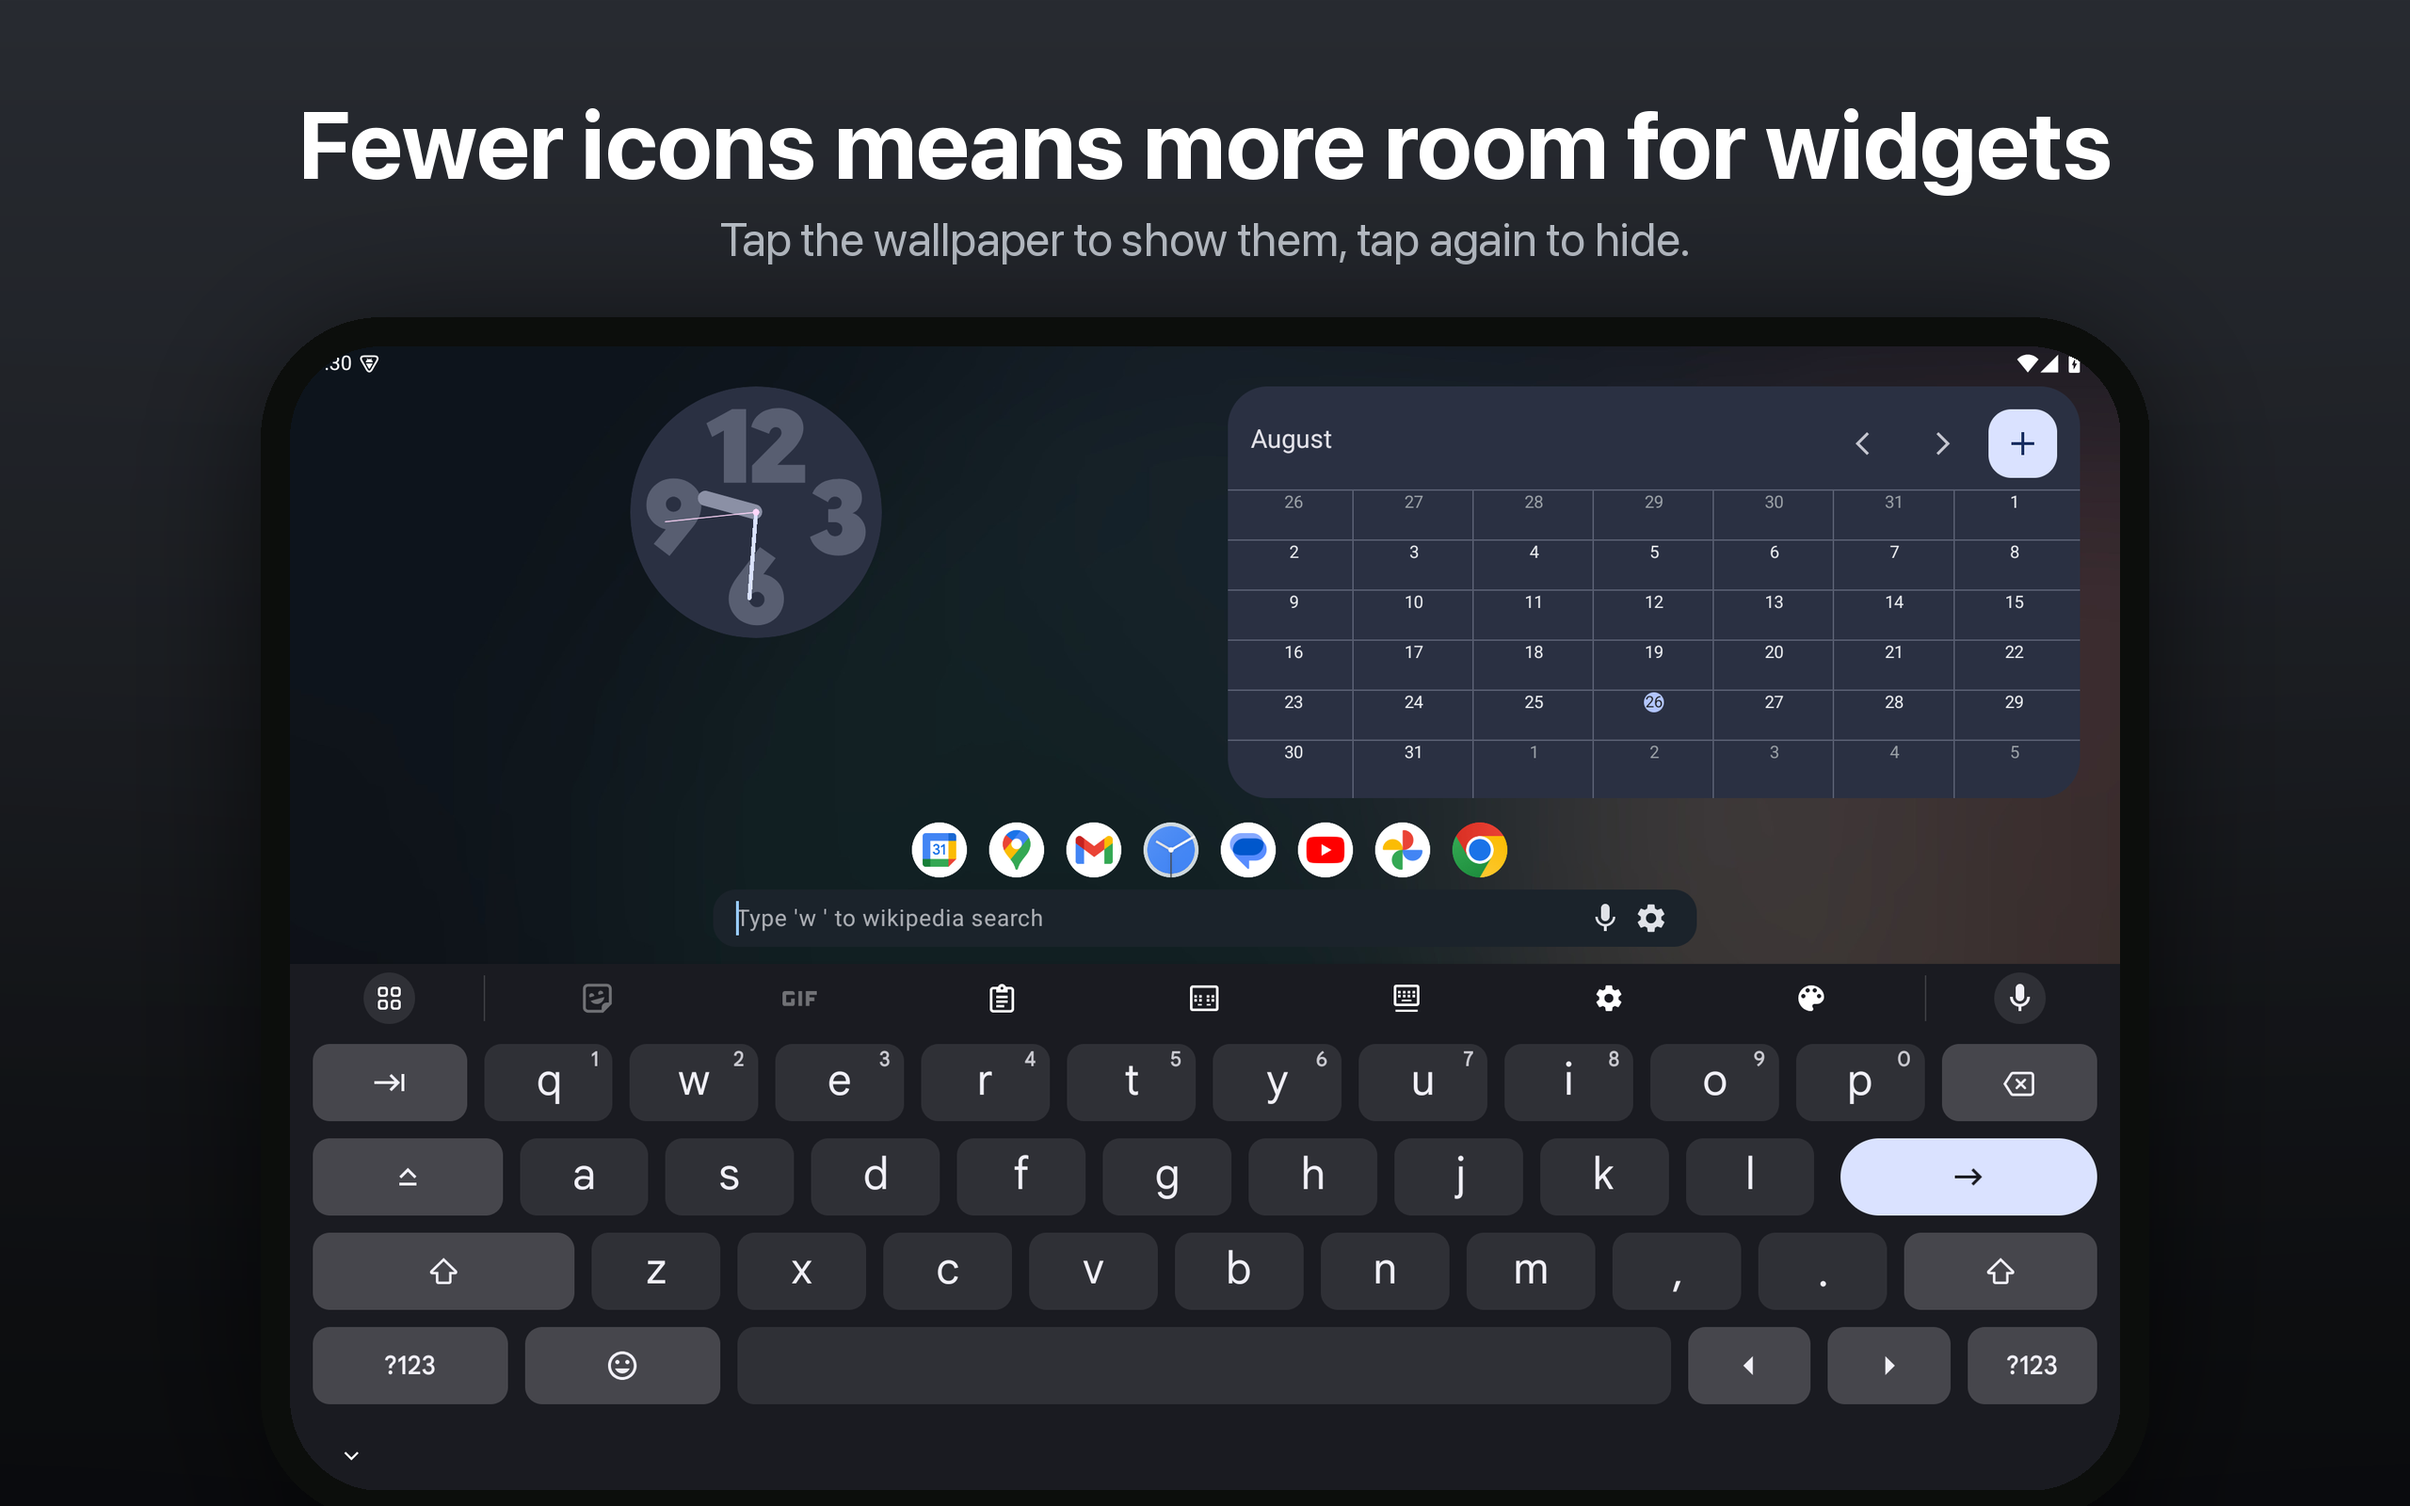
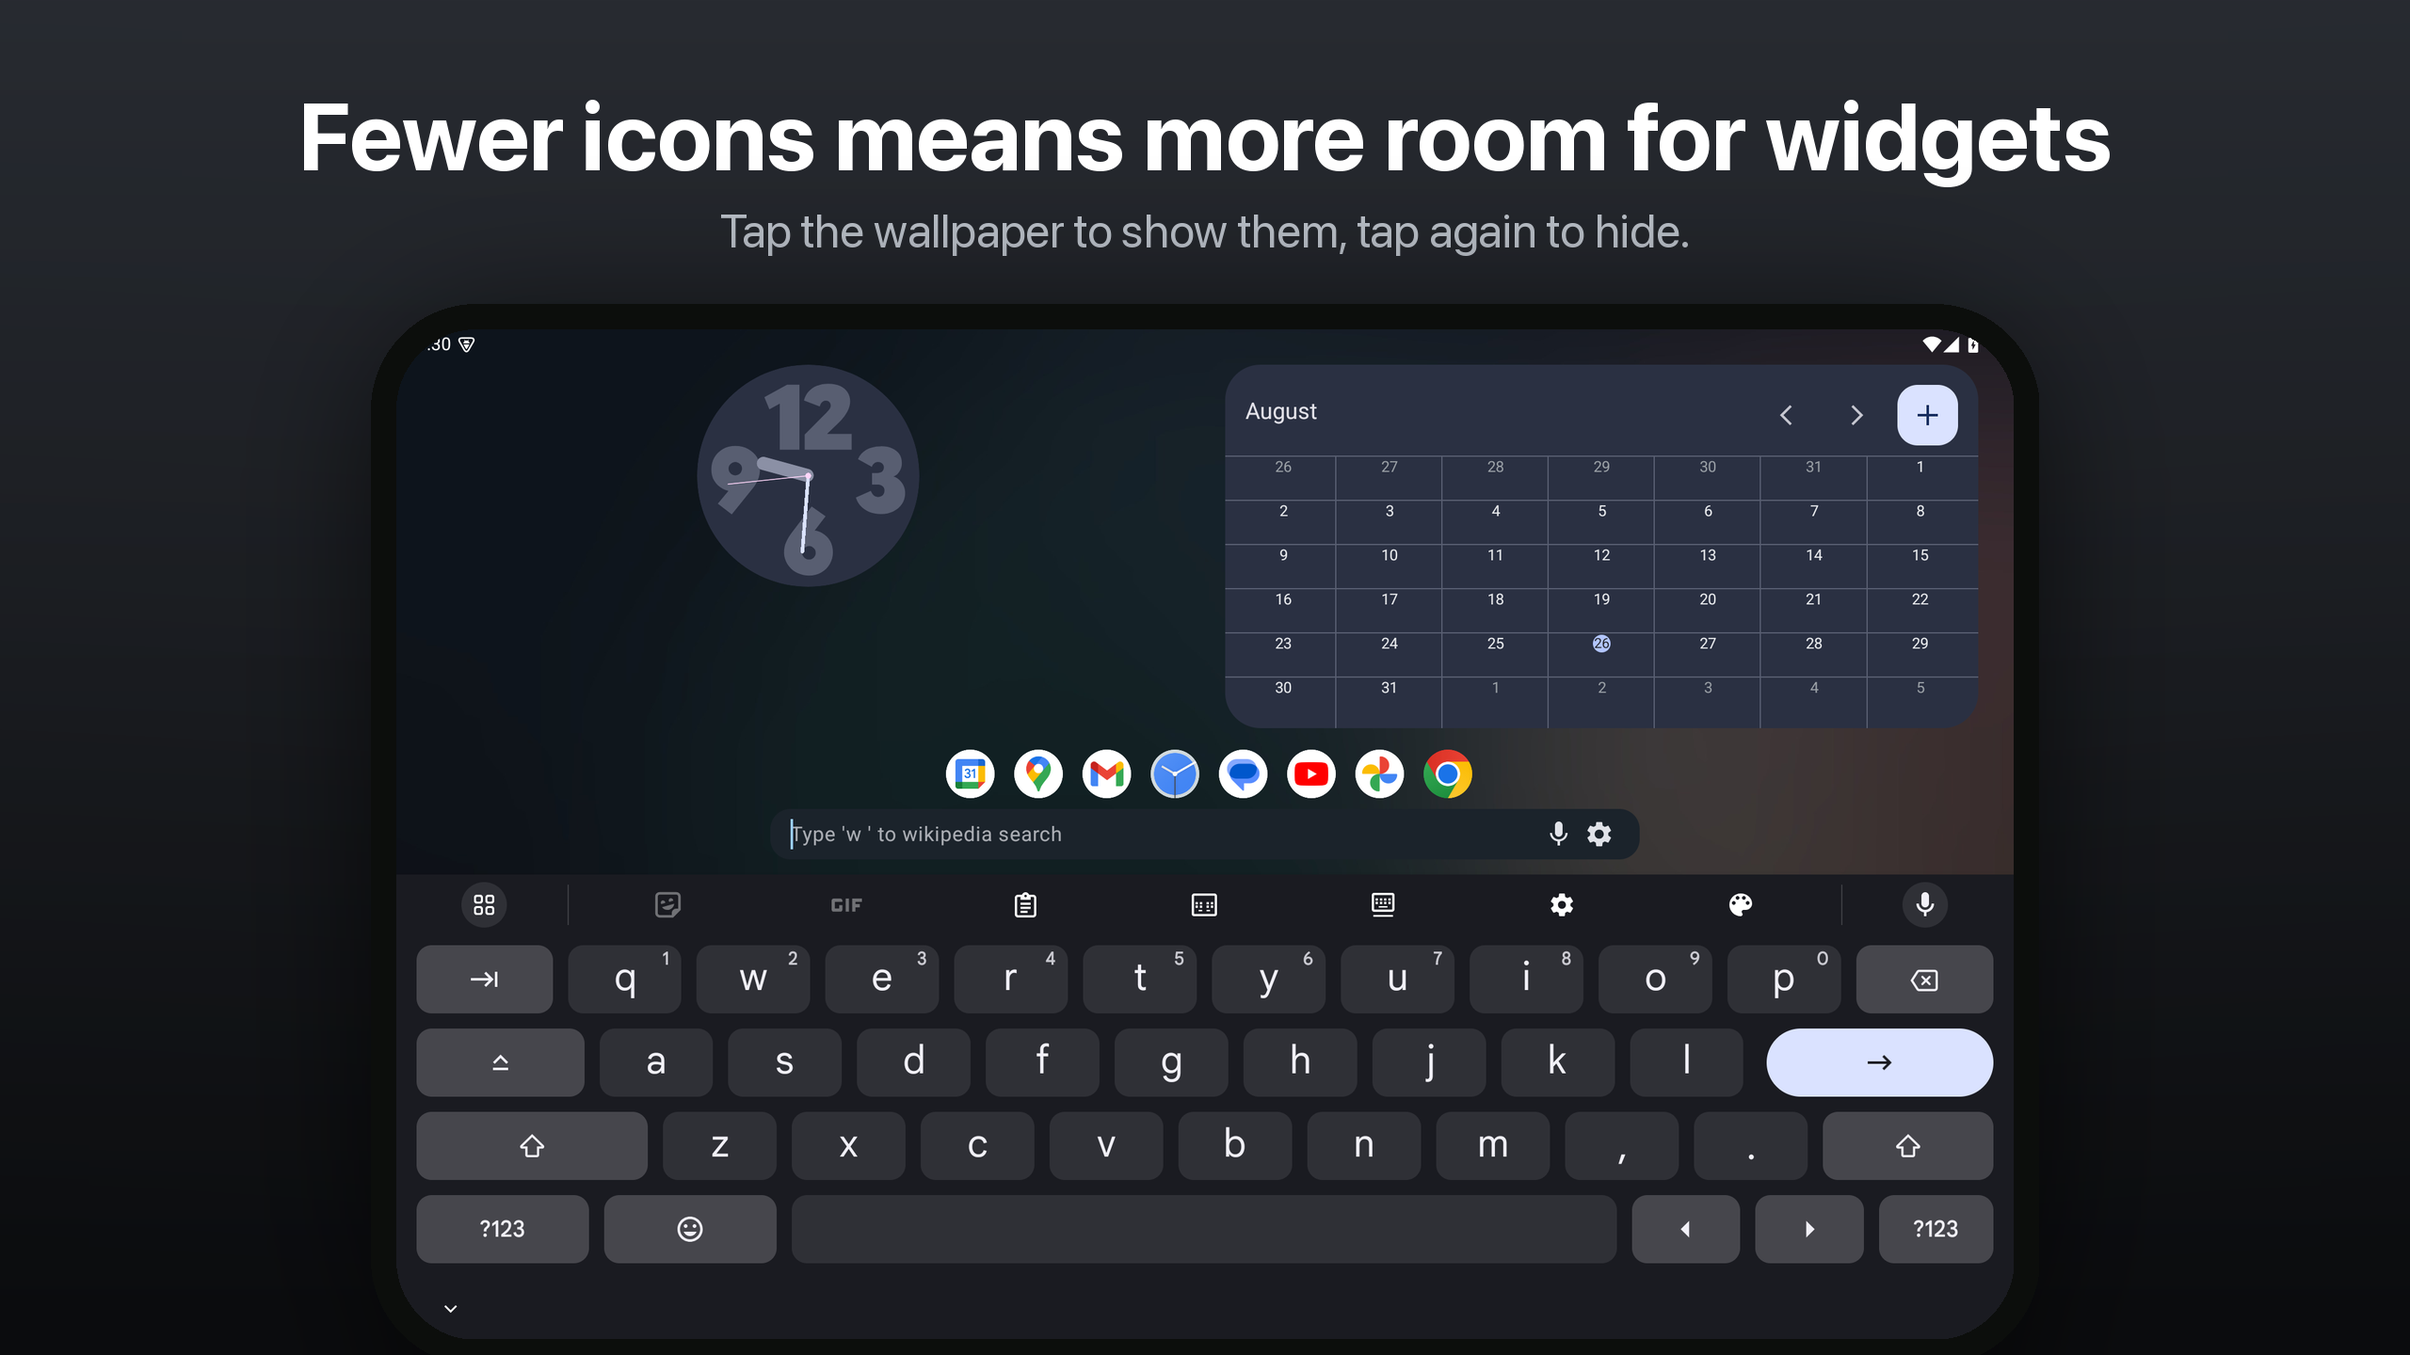
Compose the tablet screenshots onto a 16:9 canvas, and add the 7-inch set
Play wants 16:9 or 9:16 for both tablet slots and refuses anything else. The tablet
canvas was 2560x1600, which is 16:10, so the whole set would have been rejected on
upload. The canvases are 1920x1080 and 2560x1440 now. The rule is about the canvas, not
the capture: the screenshots inside are still 16:10 and unchanged.

Both tablet slots are required, not just the 10-inch one, so there is a tablet7 set. It
is the same six captures and the same copy on a smaller canvas, so nothing new has to be
written or shot when the copy changes.

check.py is new. It reads the generated images and reports anything a store would refuse
— aspect, side lengths, file size, how many are in a set. The console gives no warning
before an upload fails, and 16:10 in particular looks perfectly reasonable until it is
rejected. Run it before uploading.

diff --git a/marketing/check.py b/marketing/check.py
@@ -1,0 +1,85 @@
+#!/usr/bin/env python3
+"""
+Check the generated images against what the stores accept.
+
+Play refuses an upload rather than warning about it, and the rules are easy to miss:
+a 2560x1600 tablet canvas looks right but is 16:10, and both tablet slots want 16:9.
+
+    .venv/bin/python check.py
+
+Exits non-zero on the first thing a store would reject, so it can gate a commit.
+"""
+
+import glob
+import os
+import sys
+from fractions import Fraction
+
+from PIL import Image
+
+HERE = os.path.dirname(os.path.abspath(__file__))
+
+# Play's stated limits, per form factor. min_count of 2 is Play's floor for phones; the
+# tablet slots are marked required in the console once the app is not phone-only.
+SETS = {
+    "phone": dict(side=(320, 3840), count=(2, 8), ratios=("9:16", "16:9")),
+    "tablet7": dict(side=(320, 3840), count=(2, 8), ratios=("9:16", "16:9")),
+    "tablet10": dict(side=(1080, 7680), count=(2, 8), ratios=("9:16", "16:9")),
+    "feature": dict(exact=(1024, 500), count=(1, 1)),
+}
+MAX_MB = 8
+
+
+def ratio(w, h):
+    f = Fraction(w, h)
+    return f"{f.numerator}:{f.denominator}"
+
+
+def main():
+    failures = []
+    for name, rule in SETS.items():
+        files = sorted(glob.glob(os.path.join(HERE, "out", name, "*.png")))
+        lo, hi = rule["count"]
+        if not lo <= len(files) <= hi:
+            failures.append(f"{name}: {len(files)} images, must be {lo}-{hi}")
+
+        for path in files:
+            label = f"{name}/{os.path.basename(path)}"
+            with Image.open(path) as im:
+                w, h = im.size
+
+            mb = os.path.getsize(path) / 1024 / 1024
+            if mb >= MAX_MB:
+                failures.append(f"{label}: {mb:.1f}MB, must be under {MAX_MB}MB")
+
+            if "exact" in rule:
+                if (w, h) != rule["exact"]:
+                    want = "x".join(str(n) for n in rule["exact"])
+                    failures.append(f"{label}: {w}x{h}, must be exactly {want}")
+                continue
+
+            if ratio(w, h) not in rule["ratios"]:
+                allowed = " or ".join(rule["ratios"])
+                failures.append(f"{label}: {w}x{h} is {ratio(w, h)}, must be {allowed}")
+
+            side_lo, side_hi = rule["side"]
+            for side in (w, h):
+                if not side_lo <= side <= side_hi:
+                    failures.append(
+                        f"{label}: {w}x{h} has a side outside {side_lo}-{side_hi}px"
+                    )
+                    break
+
+        print(f"{name}: {len(files)} images")
+
+    if failures:
+        print("\nA store would reject:")
+        for f in failures:
+            print(f"  {f}")
+        return 1
+    print("\nEverything matches what the stores accept.")
+    return 0
+
+
+if __name__ == "__main__":
+    sys.exit(main())

diff --git a/DISTRIBUTION.md b/DISTRIBUTION.md
@@ -30,14 +30,21 @@ reproducible — F-Droid verifies the GitHub release APK, which is a separate ar
 | App icon, 512x512 | `fastlane/metadata/android/en-US/images/icon.png` |
 | Feature graphic, 1024x500 | `marketing/out/feature/01_widgets.png` |
 | Phone screenshots | `marketing/out/phone/*.png` (6, 1080x1920) |
-| 10-inch tablet screenshots | `marketing/out/tablet10/*.png` (6, 2560x1600) |
+| 7-inch tablet screenshots | `marketing/out/tablet7/*.png` (6, 1920x1080) |
+| 10-inch tablet screenshots | `marketing/out/tablet10/*.png` (6, 2560x1440) |
 | Release notes | `fastlane/metadata/android/en-US/changelogs/<versionCode>.txt` |
 
 Upload the composed images from `marketing/out/`, not the plain captures — the plain ones
 are what F-Droid shows. See [marketing/README.md](marketing/README.md).
 
-Play accepts at most 8 screenshots per form factor and needs at least 2. There is no
-7-inch set; Play falls back to the 10-inch one.
+Play accepts at most 8 screenshots per form factor and needs at least 2. Both tablet
+slots are required once the app is not phone-only, and both want a **16:9 or 9:16**
+canvas — a 16:10 one is refused, which is why the tablet canvases are 1920x1080 and
+2560x1440 rather than matching the 16:10 shape of the captures inside them. The 10-inch
+slot also has a higher floor: every side must be at least 1080px.
+
+`marketing/check.py` checks the generated images against all of this, so run it before an
+upload rather than finding out from the console.
 
 ### Console forms
 

diff --git a/marketing/README.md b/marketing/README.md
@@ -11,6 +11,7 @@ cd marketing
 python3 -m venv .venv && .venv/bin/pip install -r requirements.txt
 .venv/bin/python generate.py            # every set in listing.json
 .venv/bin/python generate.py phone      # just one
+.venv/bin/python check.py               # would a store take these?
 ```
 
 Output goes to `out/<set>/`, and is committed so the images can be uploaded without
@@ -93,8 +94,11 @@ in the result list.
 
 ## Store requirements
 
-Check the current rules before uploading — they move. At the time of writing Play wants
-between 2 and 8 screenshots per form factor, 16:9 or 9:16, with each side between 320px
-and 3840px, and separate sets for 7-inch and 10-inch tablets if the app should be
-treated as large-screen ready. The phone canvas here is 1080x1920 and the tablet one
-2560x1600.
+Check the current rules before uploading — they move, and `check.py` only knows the ones
+below. At the time of writing Play wants between 2 and 8 screenshots per form factor,
+each under 8MB, in a **16:9 or 9:16** canvas, with separate phone, 7-inch and 10-inch
+sets. Sides must be 320-3840px, except the 10-inch slot where the floor is 1080px.
+
+The aspect rule is about the canvas, not the capture inside it: the tablet screenshots
+are 16:10, but they are composed onto 1920x1080 and 2560x1440. The phone canvas is
+1080x1920, and the feature graphic has to be exactly 1024x500.
